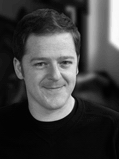
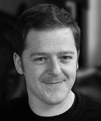
Cropped Sternberg images.

diff --git a/cendr/templates/panel.html b/cendr/templates/panel.html
@@ -1,17 +1,11 @@
 {% extends "_layouts/default.html" %}
 
-<style>
-  img {
-    width: 50%;
-    height: 50%;
-  }
-</style>
 {% block content %}
 {% for m in panel_data %}
   <div class="row">
         <div class="col-md-12">
-          <img src="/static/img/panel/{{ m.photo }}" style="width: 150px; height: 170px;"alt="{{ m.first_name }}" class="thumbnail hidden-xs lab-member-photo" />
-          <img src="/static/img/panel/{{ m.photo }}" alt="{{ m.first_name }}" class="thumbnail visible-xs lab-member-photo-small" />
+          <img src="/static/img/panel/{{ m.photo }}" style="width: 150px; height: 170px;" alt="{{ m.first_name }}" class="thumbnail hidden-xs lab-member-photo" />
+          <img src="/static/img/panel/{{ m.photo }}" style="width: 150px; height: 170px;" alt="{{ m.first_name }}" class="thumbnail visible-xs lab-member-photo-small" />
           <br />
         	<h4><a href="{{ m.website }}">{{ m.first_name }} {{ m.last_name }}</a></h4>
           <h4><small>{{m.title}}</small></h4>
